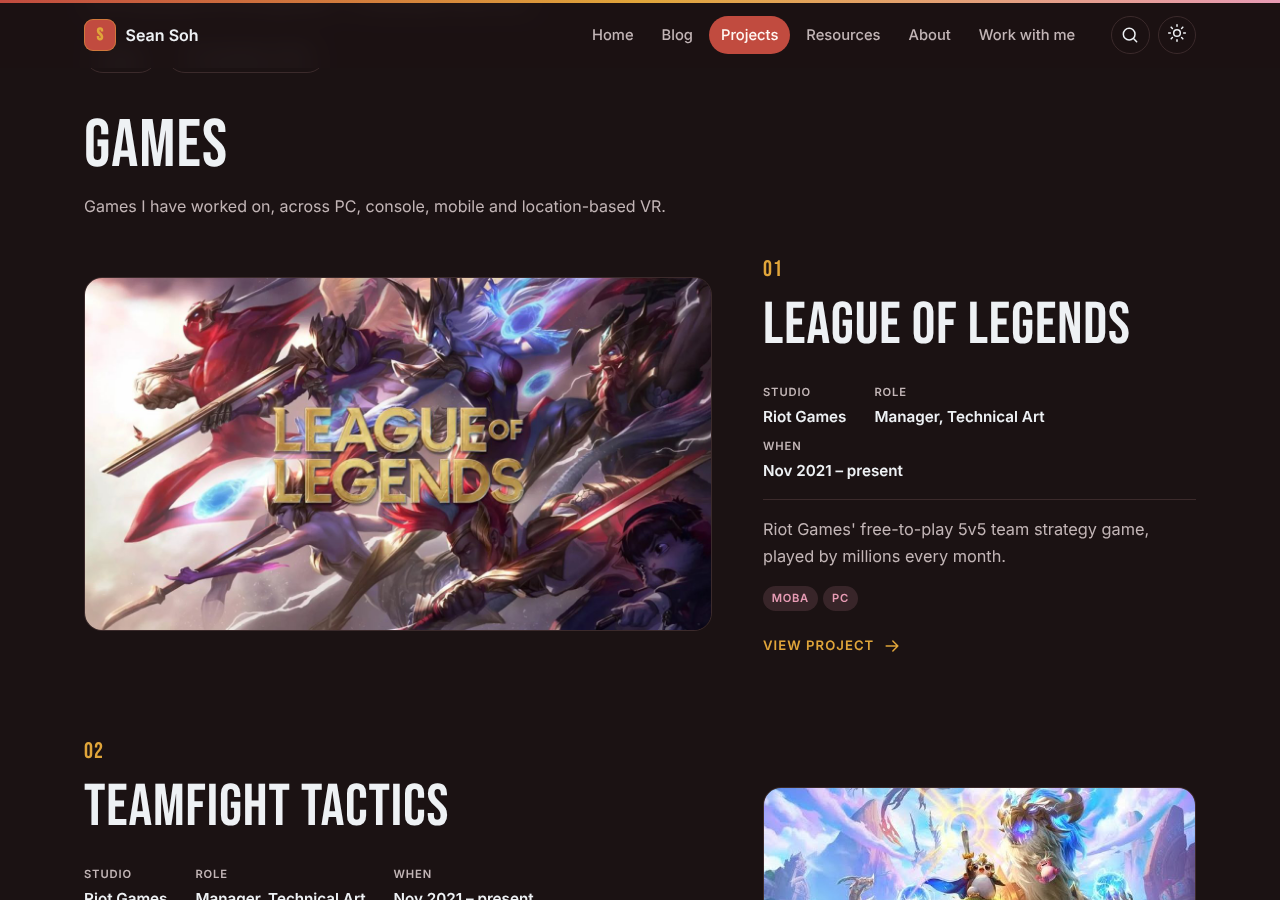
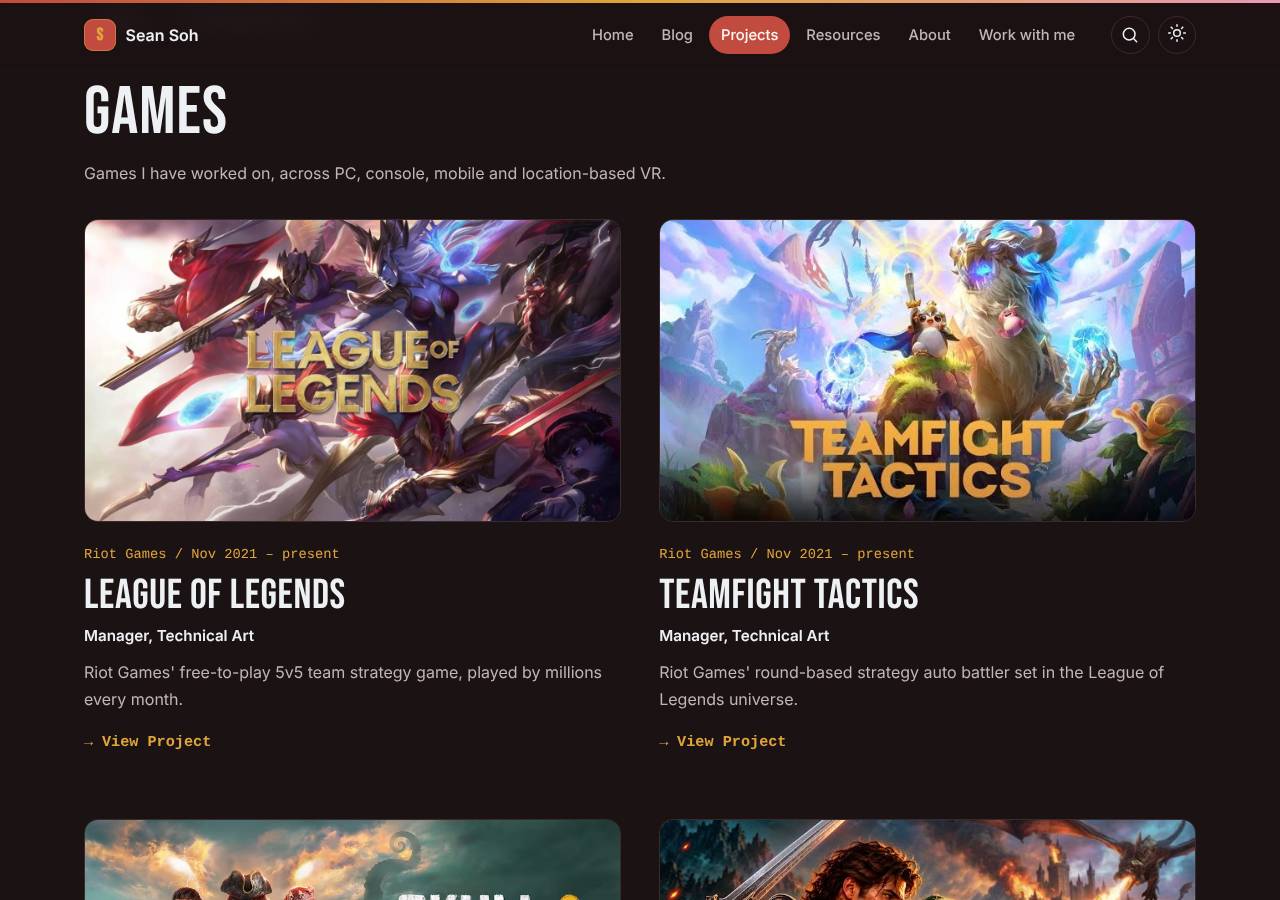
Projects page: two-column project cards matching the reference
Claude-Session: https://claude.ai/code/session_019aZhk6nqUmGebBMtB7amnR

diff --git a/assets/style.css b/assets/style.css
@@ -29,6 +29,7 @@
   --gutter: 1.25rem;
   --radius: 14px;
   --font-body: "Inter", system-ui, -apple-system, "Segoe UI", sans-serif;
+  --font-mono: ui-monospace, "SF Mono", Menlo, Consolas, "Liberation Mono", monospace;
   --font-display: "Bebas Neue", "Oswald", "Impact", "Arial Narrow", sans-serif;
   color-scheme: dark;
 }
@@ -351,29 +352,23 @@ p { margin: 0 0 1em; }
 .reel.is-paused .reel-play { display: inline; }
 .reel figcaption { margin-top: .7rem; font-size: .78rem; font-weight: 600; text-transform: uppercase; letter-spacing: .08em; color: var(--muted); }
 
-/* Projects page: large alternating tiles */
-.tiles { display: grid; gap: clamp(2.5rem, 6vw, 5rem); margin-top: 2rem; }
-.tile { display: grid; grid-template-columns: minmax(0, 1.45fr) minmax(0, 1fr); gap: clamp(1.5rem, 4vw, 3.5rem); align-items: center; }
-.tile:nth-child(even) .tile-media { order: 2; }
-.tile-media { display: block; border-radius: calc(var(--radius) + 4px); overflow: hidden; border: 1px solid var(--border); }
+/* Projects page: large two-column project cards */
+.tiles { display: grid; grid-template-columns: repeat(2, minmax(0, 1fr)); gap: clamp(2.5rem, 5vw, 4rem) clamp(1.5rem, 3vw, 2.5rem); margin-top: 2rem; }
+.tile { display: flex; flex-direction: column; }
+.tile-media { display: block; overflow: hidden; border-radius: var(--radius); border: 1px solid var(--border); margin-bottom: 1.4rem; }
 .tile-media .cover { transition: transform .5s ease; }
 .tile:hover .tile-media .cover { transform: scale(1.03); }
 .tile:hover .tile-media { border-color: color-mix(in srgb, var(--gold) 50%, var(--border)); }
-.tile-num { font-family: var(--font-display); font-size: 1.4rem; color: var(--link); letter-spacing: .05em; }
-.tile-title { font-family: var(--font-display); font-weight: 400; font-size: clamp(2.4rem, 1.6rem + 2.6vw, 3.8rem); line-height: .95; letter-spacing: .015em; margin: .15em 0 .5em; }
+.tile-meta { font-family: var(--font-mono); font-size: .86rem; color: var(--link); margin: 0 0 .55rem; }
+.tile-meta span + span::before { content: " / "; }
+.tile-title { font-family: var(--font-display); font-weight: 400; font-size: clamp(2rem, 1.5rem + 1.4vw, 2.7rem); line-height: 1; letter-spacing: .015em; margin: 0 0 .35rem; }
 .tile-title a { color: var(--text); text-decoration: none; }
 .tile-title a:hover { color: var(--link); }
-.tile-facts { display: flex; flex-wrap: wrap; gap: .5rem 1.75rem; margin: 0 0 1rem; padding: 0 0 1rem; border-bottom: 1px solid var(--border); }
-.tile-facts dt { font-size: .7rem; font-weight: 600; text-transform: uppercase; letter-spacing: .08em; color: var(--muted); }
-.tile-facts dd { margin: .15rem 0 0; font-weight: 600; font-size: .95rem; }
-.tile-summary { color: var(--muted); font-size: 1.02rem; }
-.tile .tags { margin-bottom: 1.25rem; }
-.tile-more { display: inline-flex; align-items: center; gap: .5rem; font-weight: 600; text-decoration: none; text-transform: uppercase; letter-spacing: .08em; font-size: .82rem; }
-.tile-more .icon { transition: transform .2s; }
-.tile-more:hover .icon { transform: translateX(4px); }
+.tile-role { font-weight: 600; font-size: .95rem; margin: 0 0 .7rem; }
+.tile-summary { color: var(--muted); font-size: 1rem; margin: 0 0 1.1rem; display: -webkit-box; -webkit-line-clamp: 3; -webkit-box-orient: vertical; overflow: hidden; }
+.tile-more { margin-top: auto; align-self: flex-start; display: inline-flex; align-items: center; gap: .55rem; font-family: var(--font-mono); font-weight: 700; font-size: .95rem; text-decoration: none; }
+.tile-more .arrow { transition: transform .2s; }
+.tile-more:hover .arrow { transform: translateX(4px); }
 .project-section > h2 { font-size: clamp(2.6rem, 1.8rem + 3vw, 4.2rem); margin-bottom: .2em; }
-@media (max-width: 820px) {
-  .tile { grid-template-columns: 1fr; }
-  .tile:nth-child(even) .tile-media { order: 0; }
-}
-@media (prefers-reduced-motion: reduce) { .tile-media .cover, .tile-more .icon { transition: none; } }
+@media (max-width: 760px) { .tiles { grid-template-columns: 1fr; } }
+@media (prefers-reduced-motion: reduce) { .tile-media .cover, .tile-more .arrow { transition: none; } }

diff --git a/_includes/project-tile.html b/_includes/project-tile.html
@@ -1,19 +1,12 @@
-{%- comment -%} Large project tile for the Projects page. Params: item, index {%- endcomment -%}
+{%- comment -%} Project card for the Projects page: 16:9 media, studio / period line, title, role, summary, link. Params: item {%- endcomment -%}
 {%- assign item = include.item -%}
 <article class="tile">
   <a class="tile-media" href="{{ item.url | relative_url }}" tabindex="-1" aria-hidden="true">
     {% include cover.html item=item %}
   </a>
-  <div class="tile-body">
-    <span class="tile-num">{% if include.index < 10 %}0{% endif %}{{ include.index }}</span>
-    <h3 class="tile-title"><a href="{{ item.url | relative_url }}">{{ item.title }}</a></h3>
-    <dl class="tile-facts">
-      {%- if item.studio -%}<div><dt>Studio</dt><dd>{{ item.studio }}</dd></div>{%- endif -%}
-      {%- if item.role -%}<div><dt>Role</dt><dd>{{ item.role }}</dd></div>{%- endif -%}
-      {%- if item.period -%}<div><dt>When</dt><dd>{{ item.period }}</dd></div>{%- endif -%}
-    </dl>
-    <p class="tile-summary">{{ item.summary }}</p>
-    {%- if item.tags.size > 0 -%}<ul class="tags">{% for t in item.tags %}<li>{{ t }}</li>{% endfor %}</ul>{%- endif -%}
-    <a class="tile-more" href="{{ item.url | relative_url }}">View project {% include icon.html name="arrow-right" %}</a>
-  </div>
+  <p class="tile-meta">{% if item.studio %}<span>{{ item.studio }}</span>{% endif %}{% if item.period %}<span>{{ item.period }}</span>{% endif %}</p>
+  <h3 class="tile-title"><a href="{{ item.url | relative_url }}">{{ item.title }}</a></h3>
+  {%- if item.role -%}<p class="tile-role">{{ item.role }}</p>{%- endif -%}
+  <p class="tile-summary">{{ item.summary }}</p>
+  <a class="tile-more" href="{{ item.url | relative_url }}"><span class="arrow" aria-hidden="true">→</span> View Project</a>
 </article>

diff --git a/projects/index.html b/projects/index.html
@@ -19,7 +19,7 @@ title: Projects
     <h2 id="{{ sec.id }}-title">{{ sec.title }}</h2>
     <p class="muted">{{ sec.intro }}</p>
     <div class="tiles">
-      {%- for item in items -%}{% include project-tile.html item=item index=forloop.index %}{%- endfor -%}
+      {%- for item in items -%}{% include project-tile.html item=item %}{%- endfor -%}
     </div>
   </section>
   {%- endfor -%}
